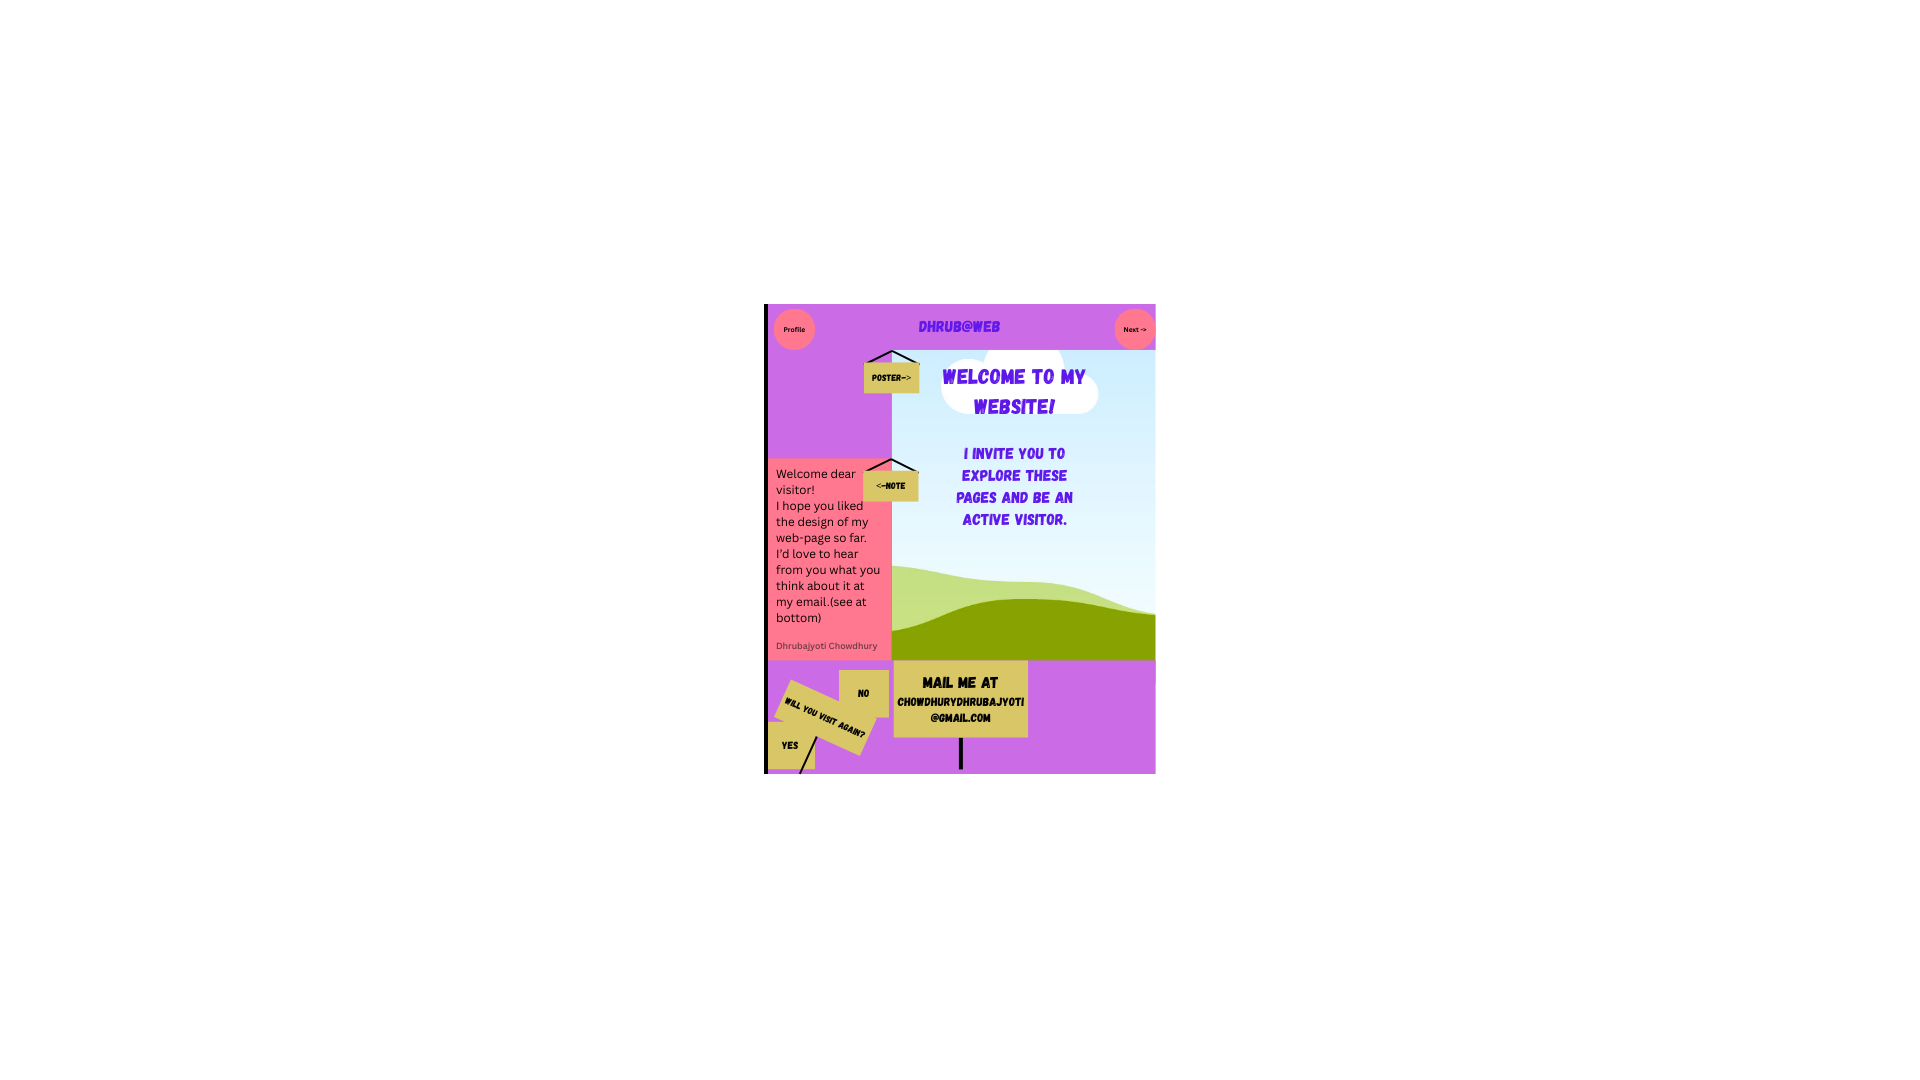
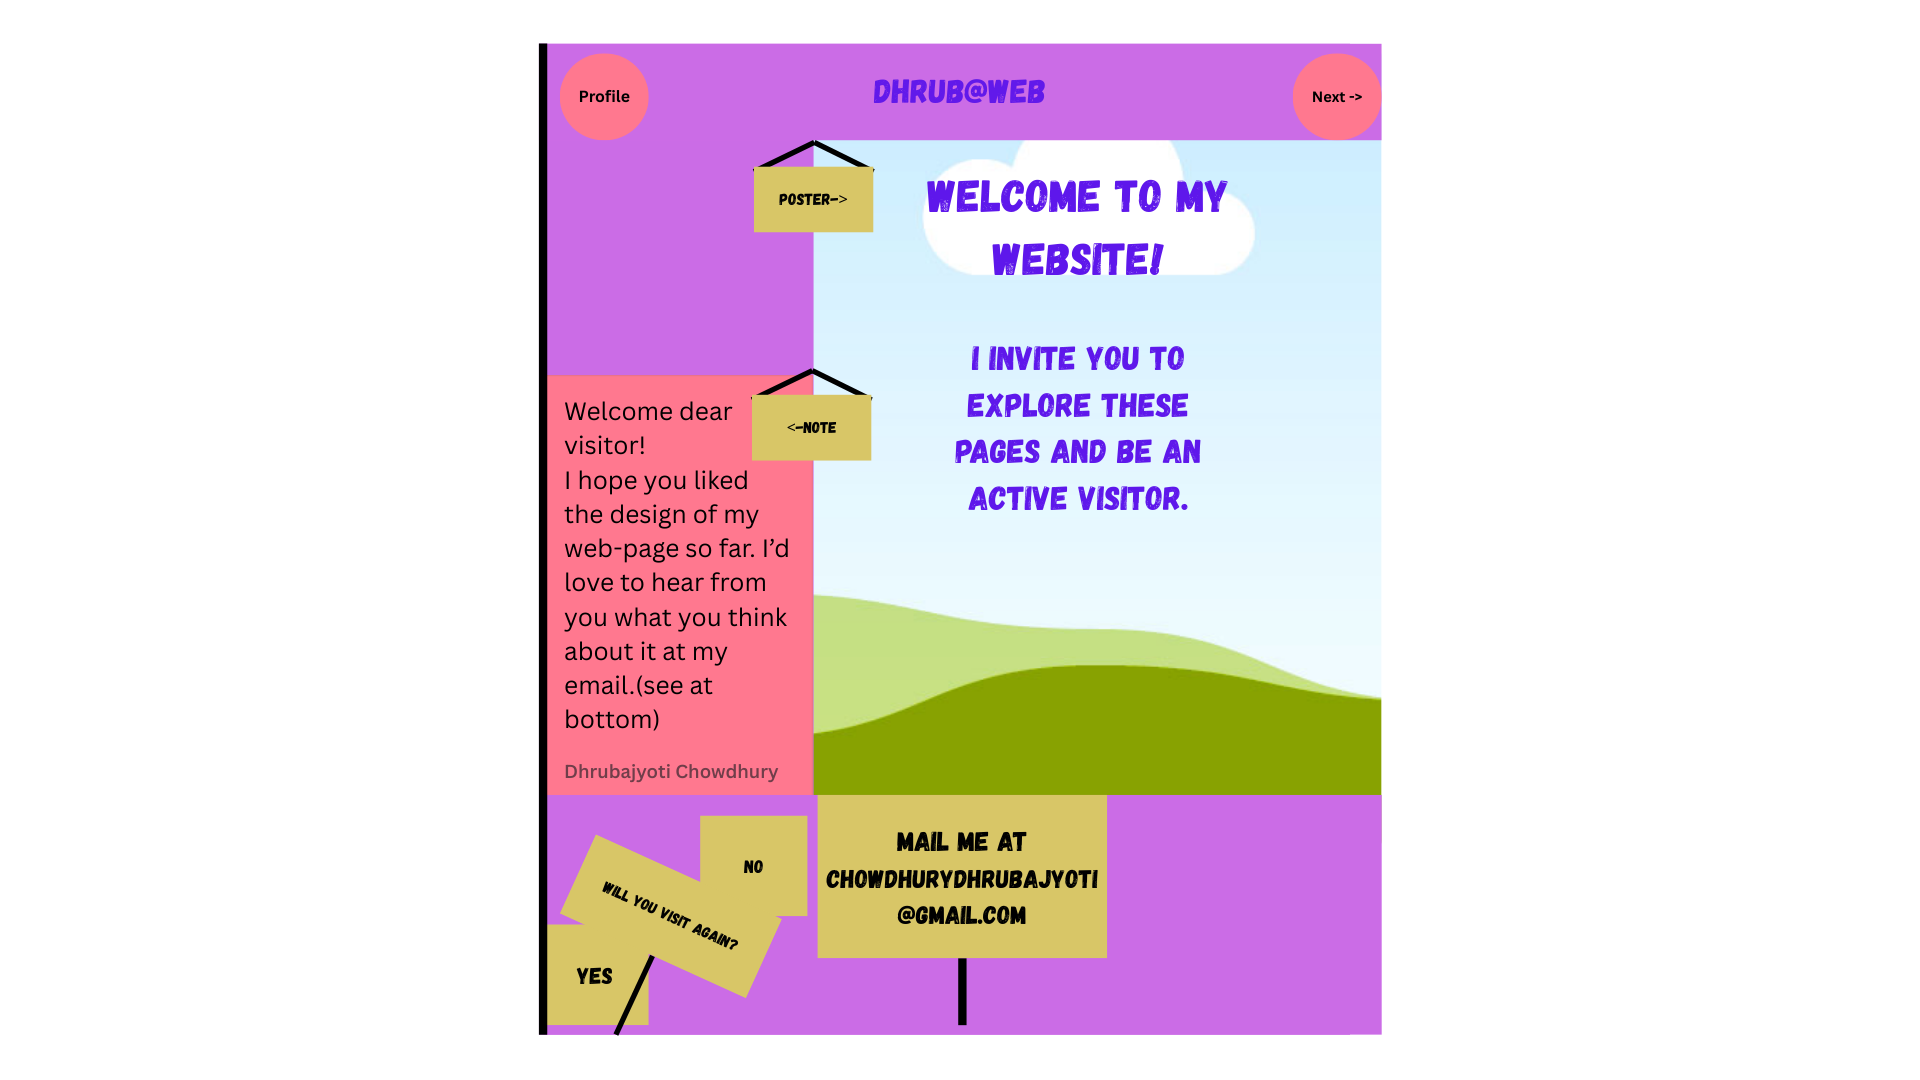
U3 9may

diff --git a/index.html b/index.html
@@ -9,7 +9,7 @@
     </head>
     <body>
         
-    <img src="https://raw.githubusercontent.com/Dhrubajyoti930/dhrubatweb/e4bde155ec3464832554863c966dd4f3d0d5d761/Welcome%20to%20my%20website!.png">
+    <img src="https://raw.githubusercontent.com/Dhrubajyoti930/dhrubatweb/e4bde155ec3464832554863c966dd4f3d0d5d761/Welcome%20to%20my%20website!.png" width="100">
         
     </body>
 </html>
